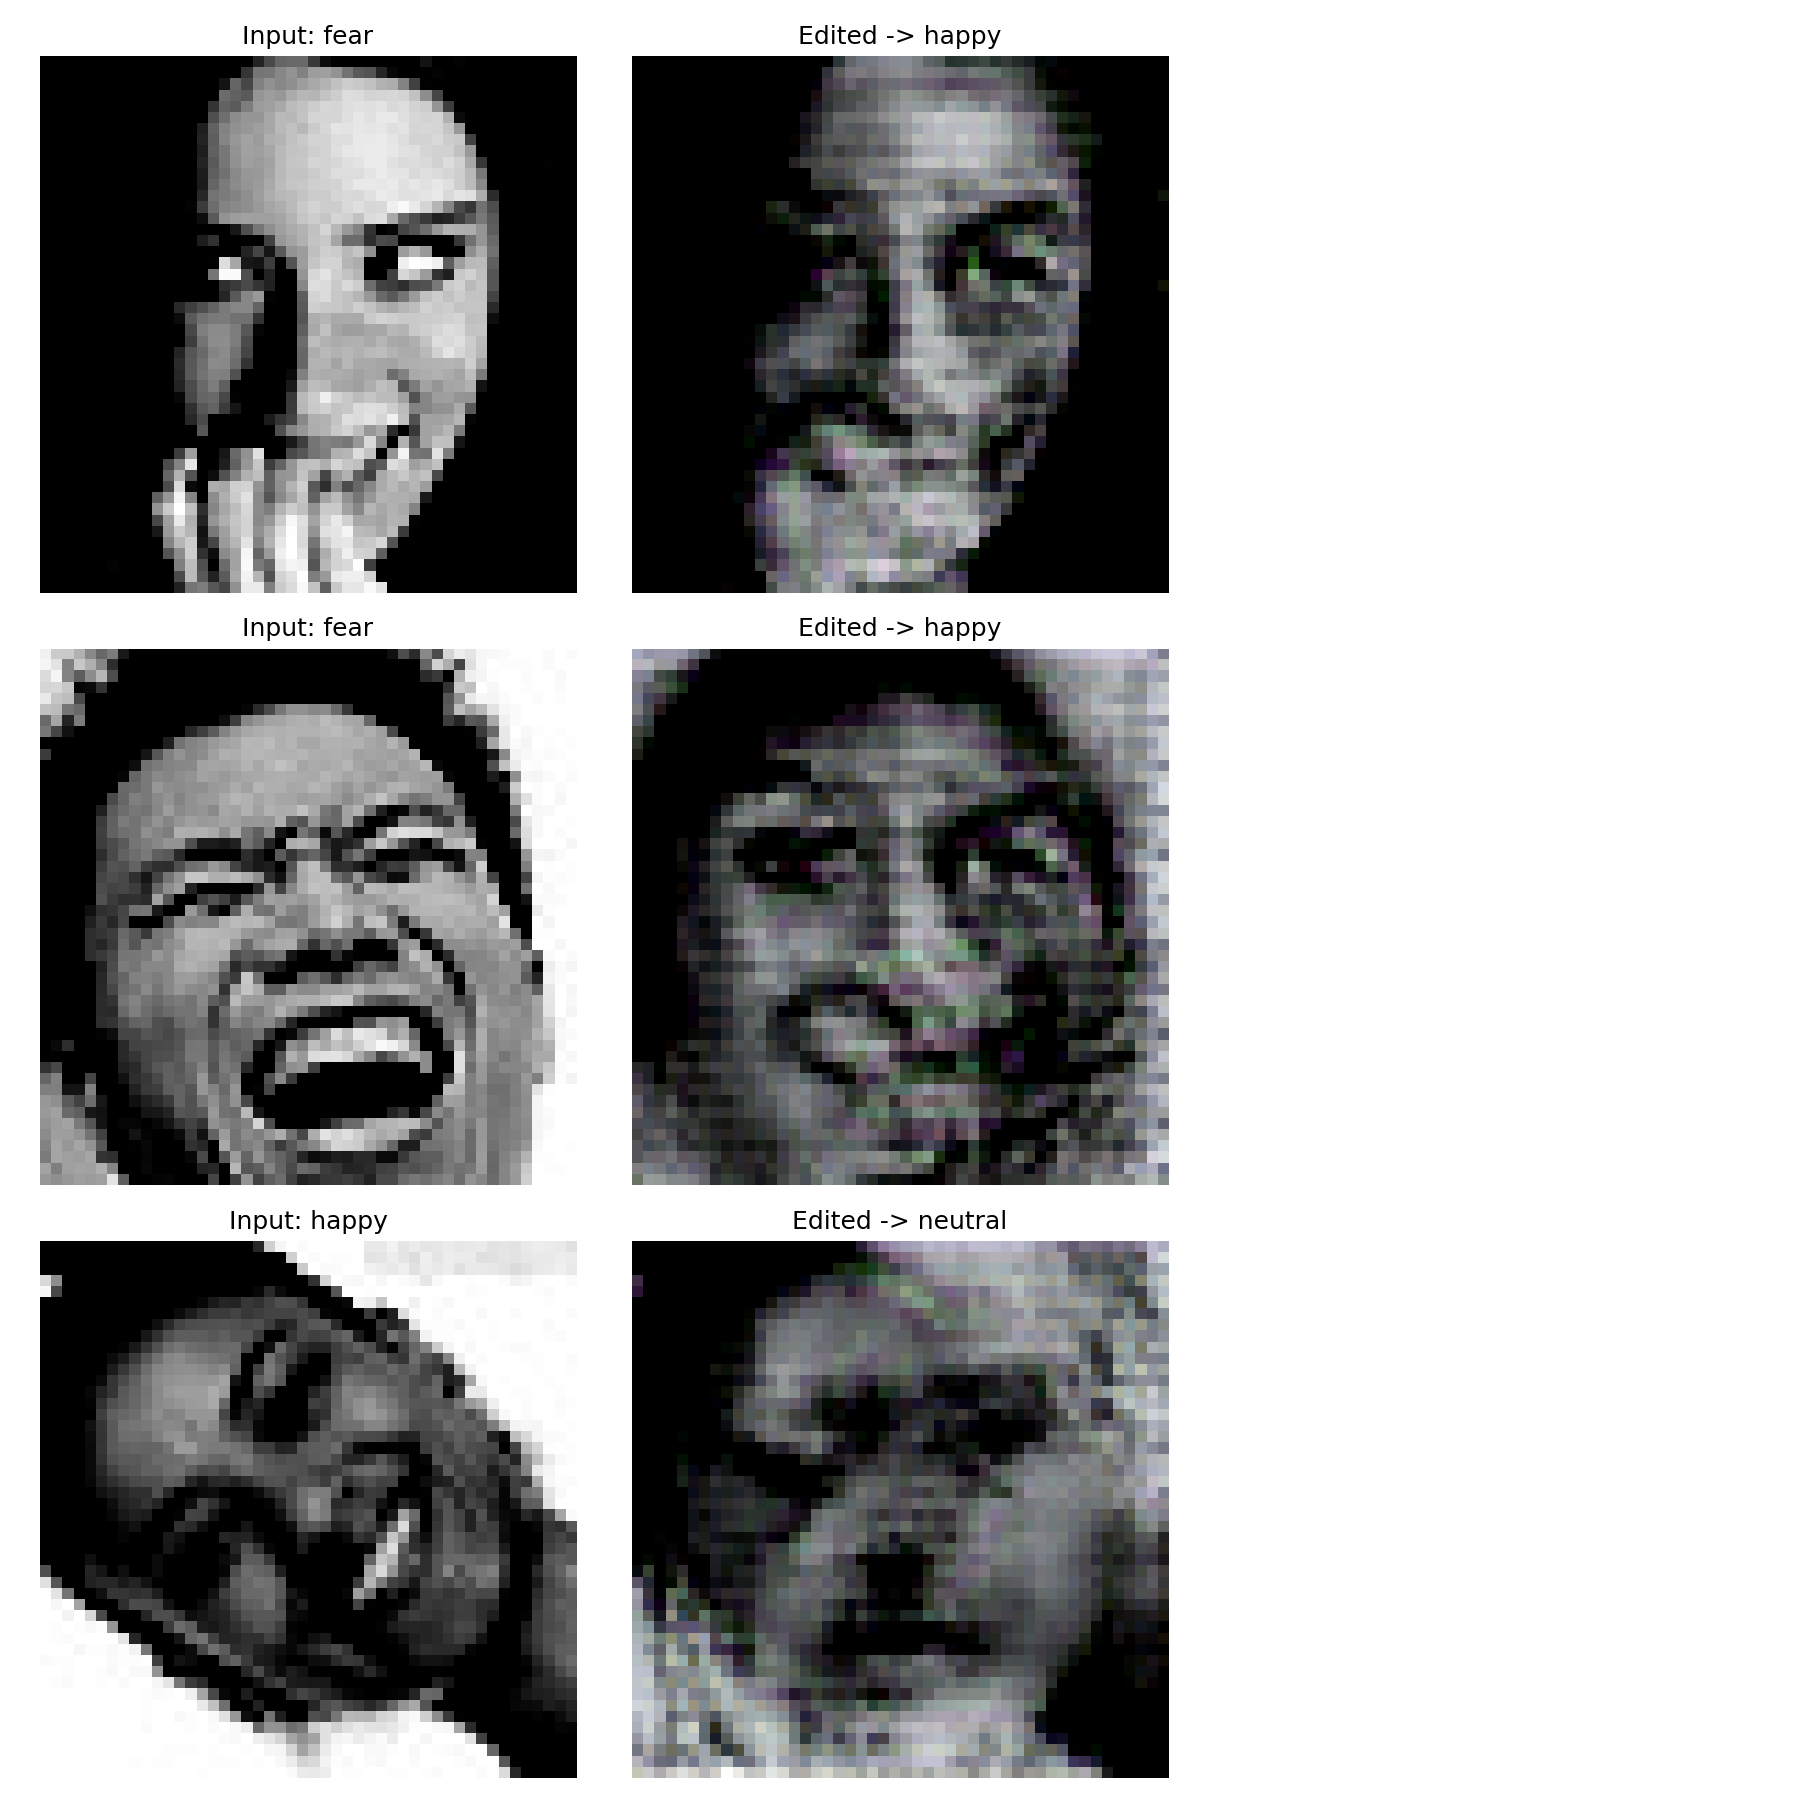
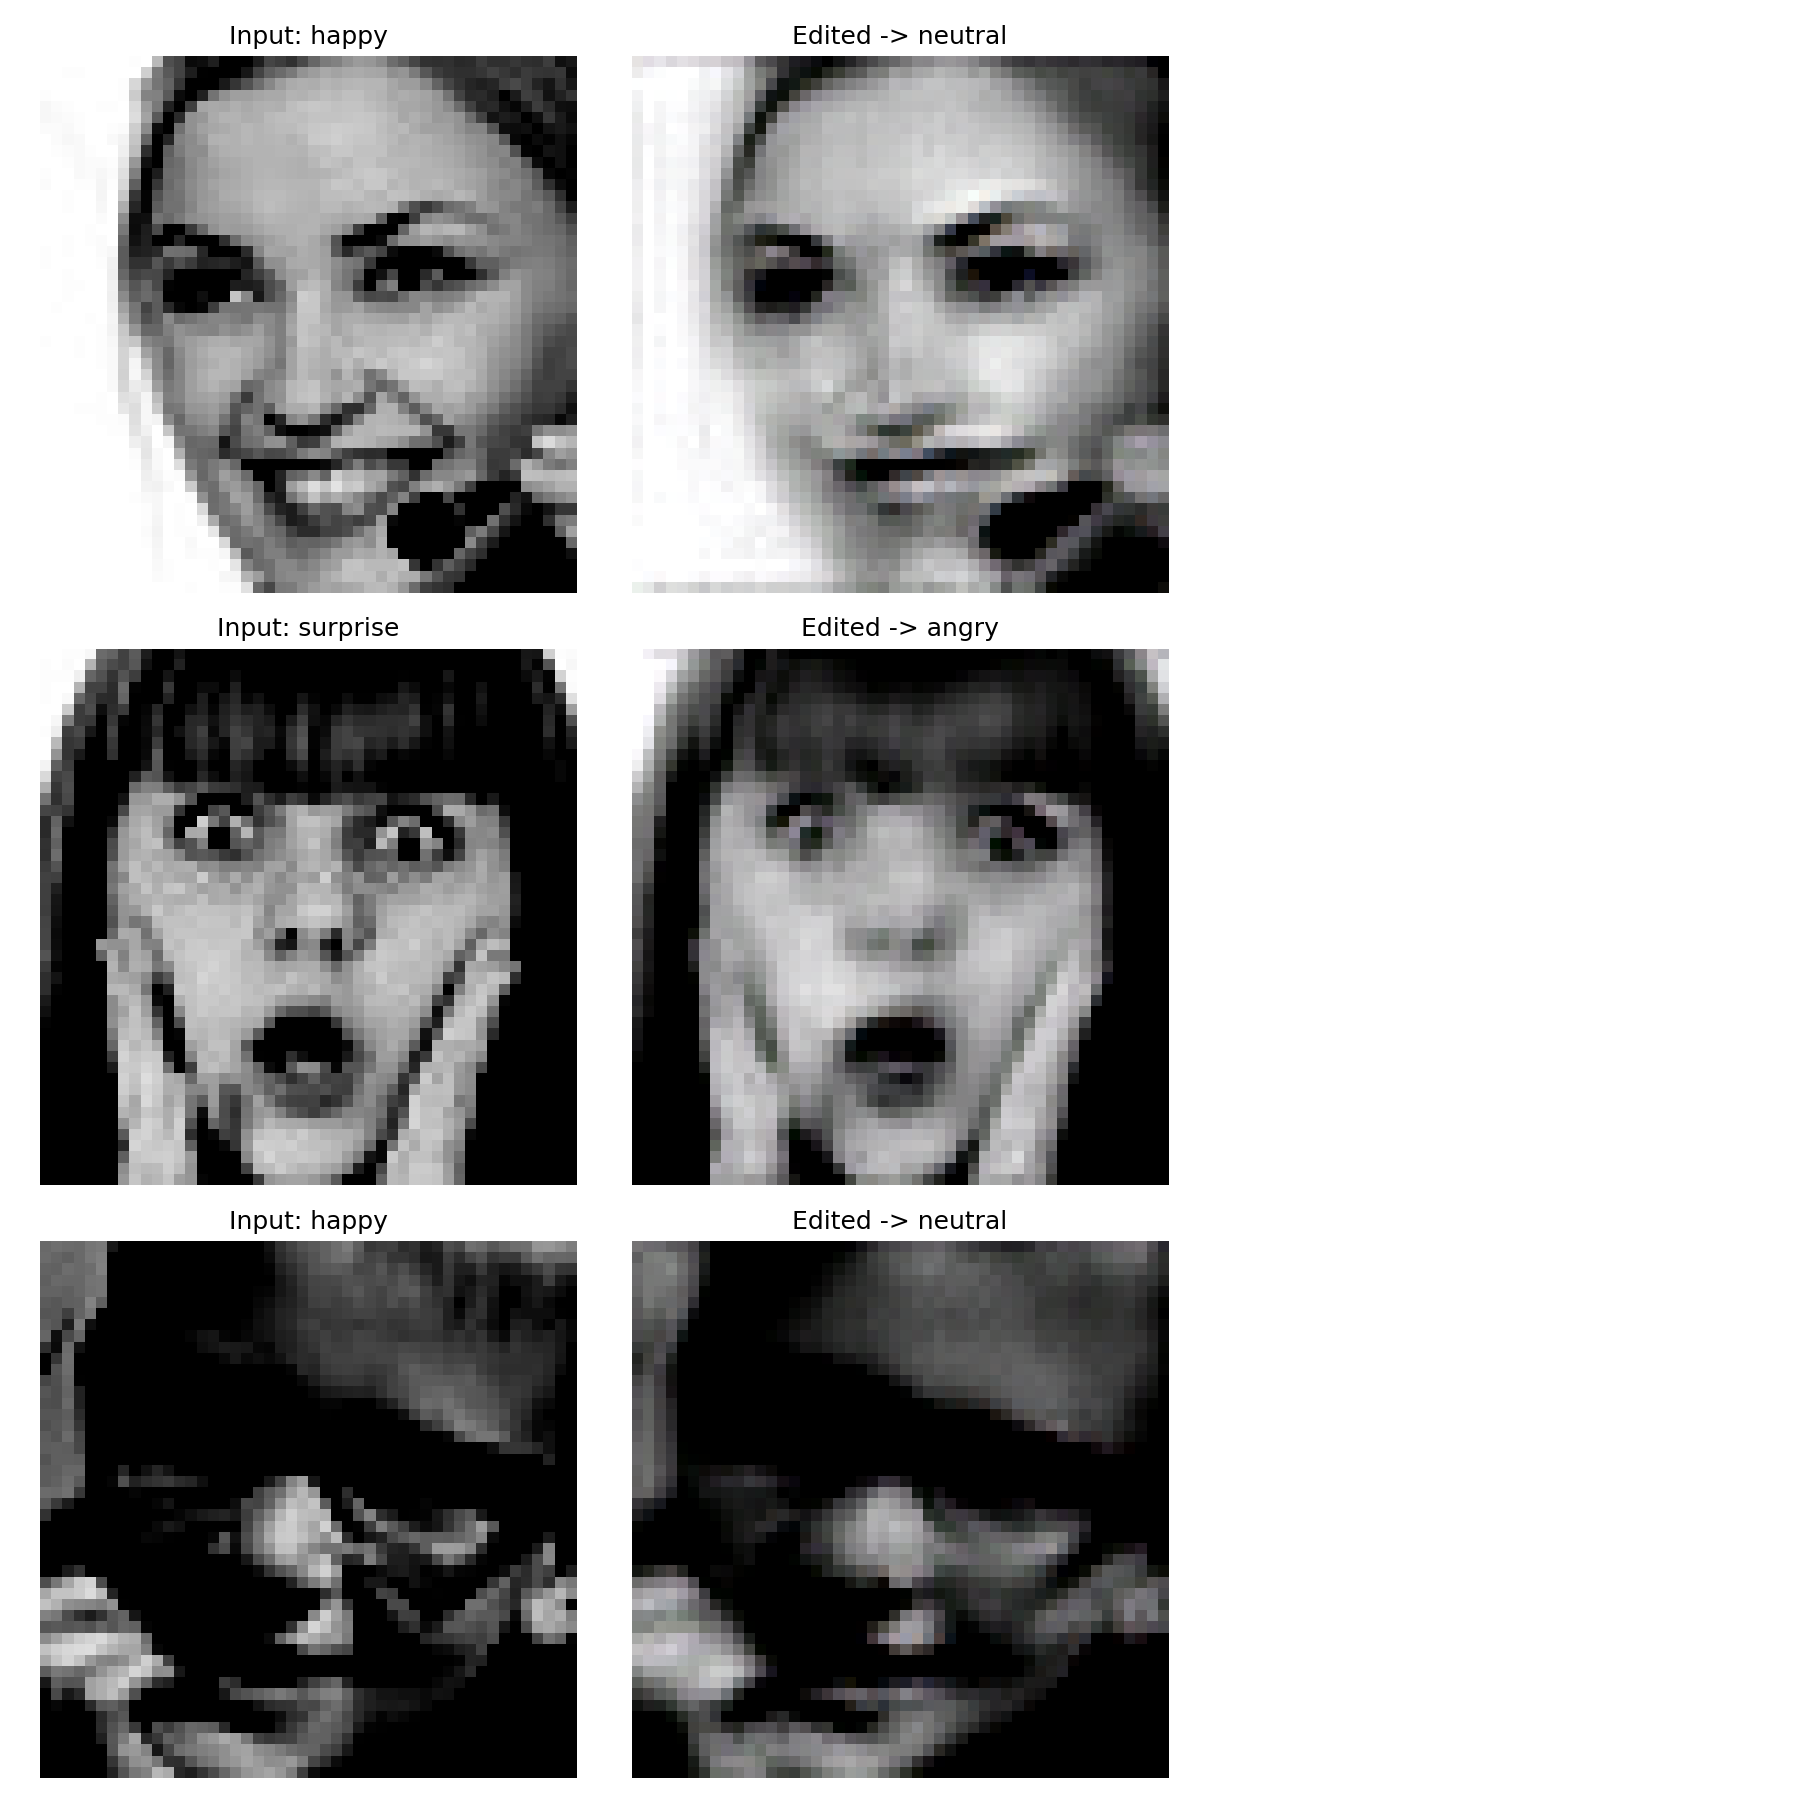
ACGAN

diff --git a/test_deepFace/modules/ACGAN.py b/test_deepFace/modules/ACGAN.py
@@ -1,0 +1,254 @@
+import os
+
+# Réduire les logs
+os.environ["TF_CPP_MIN_LOG_LEVEL"] = "2"
+
+# TF XLA pose problème si ptxas absent → on le désactive
+os.environ.pop("TF_XLA_FLAGS", None)
+
+import tensorflow as tf
+
+# Activer le memory growth pour éviter les grosses allocs qui plantent
+gpus = tf.config.list_physical_devices('GPU')
+if gpus:
+    try:
+        for gpu in gpus:
+            tf.config.experimental.set_memory_growth(gpu, True)
+        print(f"[GPU OK] {len(gpus)} GPU détecté(s).")
+    except Exception as e:
+        print("Erreur config GPU :", e)
+else:
+    print("[CPU] Aucun GPU détecté par TensorFlow.")
+
+import numpy as np
+import pandas as pd
+
+from keras.layers import Input, Conv2D, LeakyReLU, Dropout, BatchNormalization, Flatten, Dense, Embedding, Reshape, Activation, Concatenate, Conv2DTranspose
+from keras.models import Model
+from keras.optimizers import Adam
+from numpy.random import randn, randint
+from matplotlib import pyplot as plt
+from keras.models import save_model
+from math import sqrt
+from numpy import asarray
+from numpy.random import randn
+from keras.models import load_model
+
+def load_fer2013_dataset():
+    data = pd.read_csv('./test_deepFace/modules/fer2013.csv')
+    pixels = data['pixels'].values
+    emotions = data['emotion'].values
+    X, y = [], []
+    for pixel_sequence, emotion in zip(pixels, emotions):
+        pv = pixel_sequence.split()
+        if len(pv) != 2304:
+            continue
+        arr = np.array(pv, dtype=np.uint8).reshape(48, 48, 1).astype('float32') / 255.0
+        arr = arr * 2.0 - 1.0              # [-1,1] pour tanh
+        X.append(arr)
+        y.append(emotion)
+    X = np.array(X, dtype='float32')
+    y = np.array(y, dtype='int32')
+    print("Images:", X.shape, "Labels:", y.shape)
+    print("Min pixel:", X.min(), "Max pixel:", X.max())  # <-- Ajout
+    print("Unique labels:", np.unique(y))                # <-- Ajout
+    return (X, y)
+
+def define_discriminator(input_shape=(48, 48, 1), n_classes=7):
+    input_image = Input(shape=input_shape)
+    fe = Conv2D(32, (3,3), strides=(2,2), padding='same')(input_image)
+    fe = LeakyReLU(alpha=0.2)(fe)
+    fe = Dropout(0.2)(fe)
+    fe = Conv2D(64, (3,3),strides=(2,2), padding='same')(fe)
+    fe = BatchNormalization()(fe)
+    fe = LeakyReLU(alpha=0.2)(fe)
+    fe = Dropout(0.2)(fe)
+    fe = Conv2D(128, (3,3), strides=(2,2), padding='same')(fe)
+    fe = BatchNormalization()(fe)
+    fe = LeakyReLU(alpha=0.2)(fe)
+    fe = Dropout(0.2)(fe)
+    fe = Conv2D(256, (3,3), padding='same')(fe)
+    fe = BatchNormalization()(fe)
+    fe = LeakyReLU(alpha=0.2)(fe)
+    fe = Dropout(0.3)(fe)
+    fe = Flatten()(fe)
+    out1 = Dense(1, activation='sigmoid')(fe)
+    out2 = Dense(n_classes, activation='softmax')(fe)
+    model = Model(input_image, [out1, out2])
+    opt = Adam(learning_rate=0.00005, beta_1=0.5)
+    model.compile(loss=['binary_crossentropy', 'sparse_categorical_crossentropy'], optimizer=opt)
+    return model
+d=define_discriminator()
+d.summary()
+
+def define_generator(latent_dim, n_classes=7):
+    input_label = Input(shape=(1,))
+    li = Embedding(n_classes, 50)(input_label)
+    n_nodes = 12 * 12
+    li = Dense(n_nodes)(li)
+    li = Reshape((12, 12, 1))(li)
+    input_lat = Input(shape=(latent_dim,))
+    n_nodes = 384 * 12 * 12
+    gen = Dense(n_nodes)(input_lat)
+    gen = Activation('relu')(gen)
+    gen = Reshape((12, 12, 384))(gen)
+    merge = Concatenate()([gen, li])
+    gen = Conv2DTranspose(256, (5,5), strides=(2,2), padding='same')(merge)
+    gen = BatchNormalization()(gen)
+    gen = Activation('relu')(gen)
+    gen = Conv2DTranspose(128, (5,5), strides=(2,2), padding='same')(gen)
+    gen = BatchNormalization()(gen)
+    gen = Activation('relu')(gen)
+    gen = Conv2DTranspose(64, (5,5), strides=(1,1), padding='same')(gen)
+    gen = BatchNormalization()(gen)
+    gen = Activation('relu')(gen)
+    gen = Conv2DTranspose(1, (5,5), strides=(1,1), padding='same')(gen)
+    out_layer = Activation('tanh')(gen)
+    model = Model([input_lat, input_label], out_layer)
+    return model
+g = define_generator(latent_dim=100)
+g.summary()
+
+def define_gan(g_model, d_model):
+    for layer in d_model.layers:
+        if not isinstance(layer, BatchNormalization):
+            layer.trainable = False
+    gan_output = d_model(g_model.output)
+    model = Model(g_model.input, gan_output)
+    opt = Adam(learning_rate=0.0001, beta_1=0.5)
+    model.compile(loss=['binary_crossentropy', 'sparse_categorical_crossentropy'], optimizer=opt)
+    return model
+
+# use the generator to generate n fake examples, with class labels
+def generate_fake_samples(generator, latent_dim, n_samples, n_classes=7):
+    z_input = np.random.randn(latent_dim * n_samples)
+    z_input = z_input.reshape(n_samples, latent_dim)
+    labels = np.random.randint(0, n_classes, n_samples).reshape(-1, 1)
+    assert labels.min() >= 0 and labels.max() <= 6
+    X_fake = generator.predict([z_input, labels])
+    return X_fake, labels
+
+
+def train(g_model, d_model, gan_model, dataset, latent_dim, n_epochs, n_batch):
+    X_train, y_train = dataset
+    bat_per_epo = max(1, X_train.shape[0] // n_batch)
+    print(f"Batches/epoch: {bat_per_epo}")
+    
+    history = {'d_real': [], 'd_fake': [], 'g_loss': []}
+    
+    for epoch in range(1, n_epochs + 1):
+        print(f"\n{'='*60}")
+        print(f"Epoch {epoch}/{n_epochs}")
+        print(f"{'='*60}")
+        
+        d_r1_sum, d_r2_sum = 0, 0
+        d_f_sum, d_f2_sum = 0, 0
+        g_1_sum, g_2_sum = 0, 0
+        
+        for batch in range(bat_per_epo):
+            ix = np.random.randint(0, X_train.shape[0], n_batch)
+            X_real, labels_real = X_train[ix], y_train[ix]
+            # Ajout de bruit
+            X_real += np.random.normal(0, 0.05, X_real.shape)
+            X_real = np.clip(X_real, -1.0, 1.0)
+            y_real = np.random.uniform(0.8, 1.0, (n_batch, 1))
+            _, d_r1, d_r2 = d_model.train_on_batch(X_real, [y_real, labels_real])
+
+            X_fake, labels_fake = generate_fake_samples(g_model, latent_dim, n_batch)
+            y_fake = np.random.uniform(0.0, 0.2, (n_batch, 1))
+            _, d_f, d_f2 = d_model.train_on_batch(X_fake, [y_fake, labels_fake])
+
+            z_input = np.random.randn(n_batch, latent_dim)
+            z_labels = np.random.randint(0, 7, n_batch).reshape(-1, 1)
+            y_gan = np.ones((n_batch, 1))
+            _, g_1, g_2 = gan_model.train_on_batch([z_input, z_labels], [y_gan, z_labels])
+
+            d_r1_sum += d_r1
+            d_r2_sum += d_r2
+            d_f_sum += d_f
+            d_f2_sum += d_f2
+            g_1_sum += g_1
+            g_2_sum += g_2
+        
+        avg_d_real = d_r1_sum / bat_per_epo
+        avg_d_fake = d_f_sum / bat_per_epo
+        avg_g = g_1_sum / bat_per_epo
+        
+        history['d_real'].append(avg_d_real)
+        history['d_fake'].append(avg_d_fake)
+        history['g_loss'].append(avg_g)
+        
+        print(f"\n[Summary] D_real: {avg_d_real:.4f} | D_fake: {avg_d_fake:.4f} | G: {avg_g:.4f}")
+
+        if epoch % 10 == 0:
+            examples = 7
+            latent_points = np.random.randn(examples, latent_dim)
+            labels = np.arange(0, 7).reshape(-1, 1)
+            X_fake = g_model.predict([latent_points, labels])
+            imgs = (X_fake + 1.0) / 2.0
+            
+            plt.figure(figsize=(14, 2))
+            for i in range(examples):
+                plt.subplot(1, examples, i+1)
+                plt.imshow(imgs[i].reshape(48, 48), cmap='gray')
+                plt.axis('off')
+                plt.title(f'Emo {int(labels[i])}', fontsize=10)
+            plt.tight_layout()
+            plt.savefig(f"generated_epoch_{epoch:04d}.png", dpi=100)
+            plt.close()
+            
+            save_model(g_model, f'checkpoints/generator_epoch_{epoch}.h5')
+            save_model(d_model, f'checkpoints/discriminator_epoch_{epoch}.h5')
+            print(f"✓ Checkpoint sauvegardé: epoch {epoch}")
+        
+        if epoch % 50 == 0:
+            plt.figure(figsize=(10, 4))
+            plt.plot(history['d_real'], label='D_real', alpha=0.7)
+            plt.plot(history['d_fake'], label='D_fake', alpha=0.7)
+            plt.plot(history['g_loss'], label='G_loss', alpha=0.7)
+            plt.xlabel('Epoch')
+            plt.ylabel('Loss')
+            plt.title('Training History')
+            plt.legend()
+            plt.grid(True, alpha=0.3)
+            plt.savefig(f'training_history_epoch_{epoch}.png', dpi=100)
+            plt.close()
+            print(f"✓ Graphe sauvegardé: epoch {epoch}")
+     
+
+def run_cgan():
+    os.makedirs('checkpoints', exist_ok=True)
+    dataset = load_fer2013_dataset()
+    X_train, y_train = dataset
+    d_model = define_discriminator(input_shape=(48, 48, 1))
+    g_model = define_generator(latent_dim=100)
+    gan_model = define_gan(g_model, d_model)
+    train(g_model, d_model, gan_model, (X_train, y_train), latent_dim=100, n_epochs=200, n_batch=16)
+    save_model(d_model, 'discriminator_model.h5')
+    save_model(g_model, 'generator_model.h5')
+    save_model(gan_model, 'acgan_model.h5')
+    print("\n✓ Entraînement terminé. Modèles finaux sauvegardés.")
+
+def generate_emotion_image(latent_vector, emotion_label):
+    g_model = load_model('generator_model.h5', compile=False)
+    latent_vector = np.expand_dims(latent_vector, axis=0)
+    emotion_label = np.array([[emotion_label]])
+    generated_image = g_model.predict([latent_vector, emotion_label])
+    generated_image = (generated_image + 1.0) / 2.0  # Remettre en [0,1]
+    return generated_image[0]
+if __name__ == "__main__":
+    print("=== ACGAN ===")
+    print("Voulez-vous entraîner le modèle ACGAN ou générer une image ?")
+    choice = input("Entrez 'train' pour entraîner ou 'generate' pour générer une image: ").strip().lower()
+    if choice == 'train':
+        run_cgan()
+    elif choice == 'generate':
+        latent_vector = np.random.randn(100)
+        emotion_label = int(input("Entrez une étiquette d'émotion (0 = colère, 1 = dégoût, 2 = peur, 3 = bonheur, 4 = tristesse, 5 = surprise, 6 = neutre): "))
+        generated_image = generate_emotion_image(latent_vector, emotion_label)
+        import matplotlib.pyplot as plt
+        plt.imshow(generated_image.reshape(48,48), cmap='gray')
+        plt.axis('off')
+        plt.title(f'Émotion: {emotion_label}')
+        plt.show()
+     
